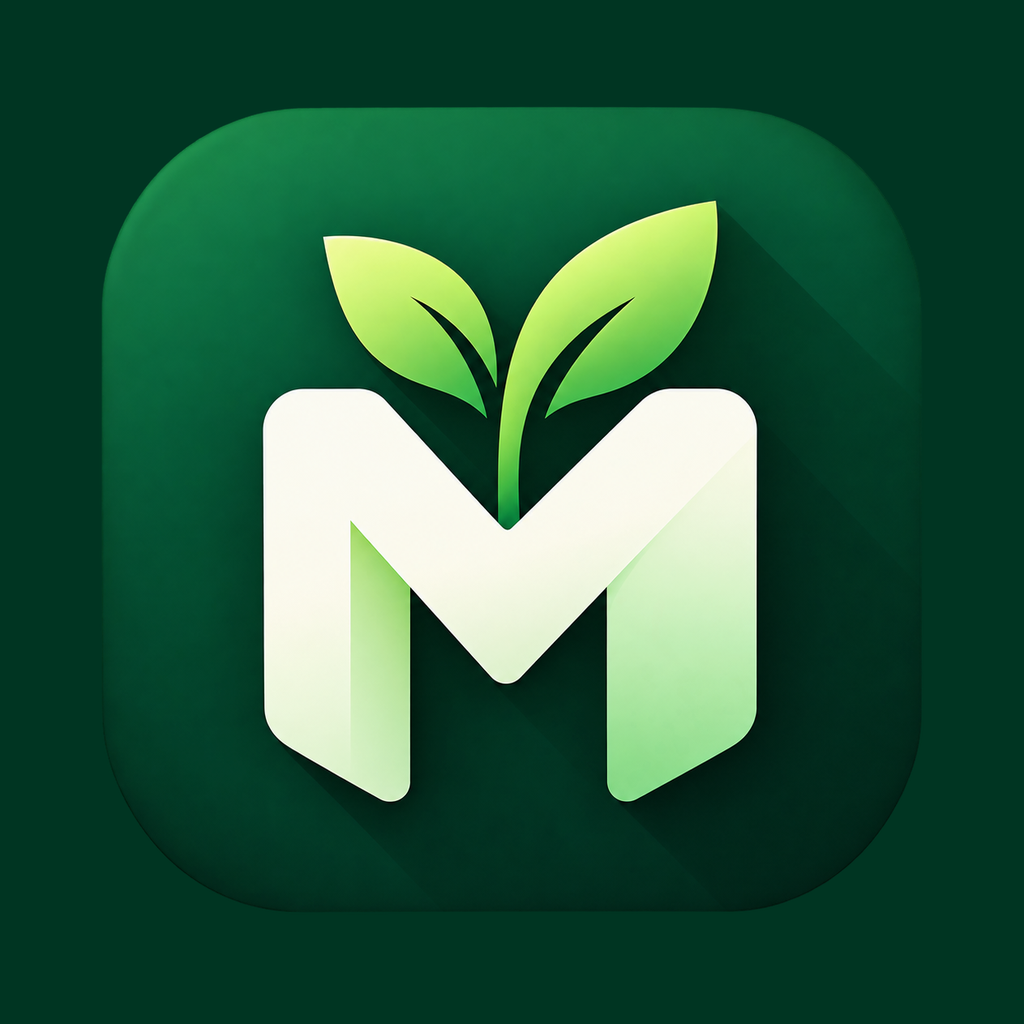
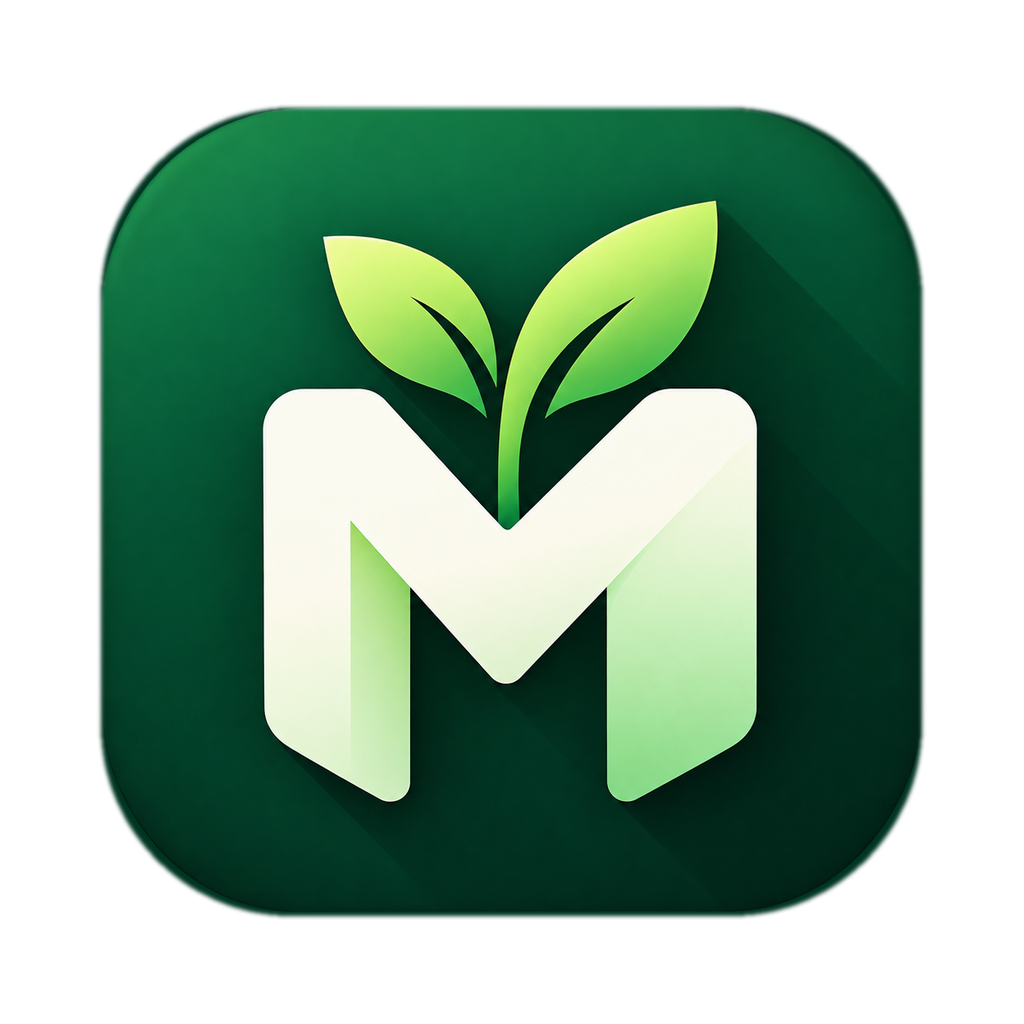
Add files via upload

diff --git a/lib/main.dart b/lib/main.dart
@@ -13,7 +13,7 @@ const expenseRed = Color(0xFFE76F6F);
 const defaults = <String, dynamic>{
   'monthly_income': 0.0, 'rent': 0.0, 'savings_goal': 0.0,
   'transactions': [], 'monthly_payments': [], 'processed_months': [],
-  'custom_categories': [], 'ai_provider': 'OpenAI', 'ai_api_key': '',
+  'custom_categories': [], 'hidden_categories': [], 'ai_provider': 'OpenAI', 'ai_api_key': '',
   'ai_model': '', 'ai_base_url': '', 'ai_history': [], 'setup_completed': false, 'currency': 'USD', 'opening_balance': 0.0,
   'language': 'es', 'theme': 'light'
 };
@@ -26,6 +26,28 @@ const additionalLabels=<String,Map<String,String>>{
 'de':{'home':'Start','moves':'Buchungen','monthly':'Zahlungen','stats':'Statistiken','ai':'KI-Berater','settings':'Einstellungen','balance':'Verfügbar','income':'Einnahmen','expenses':'Ausgaben','savings':'Sparziel','add':'Hinzufügen','delete':'Löschen','save':'Speichern','category':'Kategorie','amount':'Betrag','note':'Notiz','name':'Name','send':'Senden','wait':'KI bereitet die Antwort vor','providerWait':'Warte auf Anbieter','noData':'Noch keine Daten','monthIncome':'Automatisches Monatseinkommen','provider':'KI-Anbieter','model':'Modell','key':'API-Schlüssel','import':'JSON importieren','export':'JSON-Sicherung kopieren','confirm':'Alle Daten ersetzen?','yes':'Ersetzen','cancel':'Abbrechen','settingsSaved':'Gespeichert','invalid':'Ungültiger Betrag','type':'Typ','extra':'Zusätzliches Einkommen','expense':'Ausgabe','payment':'Monatszahlung','active':'Aktiv','paused':'Pausiert','language':'Sprache','theme':'Design','dark':'Dunkel','light':'Hell','newPayment':'Neue Monatszahlung','noKey':'API-Schlüssel in Einstellungen eintragen.','custom':'Eigene URL','goal':'Sparziel','error':'Fehler','loading':'Verbinden','backup':'Sicherung kopiert','imported':'Daten importiert','recents':'Letzte Buchungen'},
 'bn':{'home':'হোম','moves':'লেনদেন','monthly':'মাসিক পেমেন্ট','stats':'পরিসংখ্যান','ai':'এআই পরামর্শক','settings':'সেটিংস','balance':'অবশিষ্ট','income':'আয়','expenses':'খরচ','savings':'সঞ্চয়ের লক্ষ্য','add':'যোগ করুন','delete':'মুছুন','save':'সংরক্ষণ','category':'বিভাগ','amount':'পরিমাণ','note':'নোট','name':'নাম','send':'পাঠান','wait':'এআই উত্তর প্রস্তুত করছে','providerWait':'সেবাদাতার উত্তরের অপেক্ষায়','noData':'কোনো তথ্য নেই','monthIncome':'মাসিক আয়','provider':'এআই প্রদানকারী','model':'মডেল','key':'এপিআই কী','import':'JSON আমদানি','export':'JSON ব্যাকআপ কপি','confirm':'সব তথ্য বদলাবেন?','yes':'বদলান','cancel':'বাতিল','settingsSaved':'সেটিংস সংরক্ষিত','invalid':'ভুল পরিমাণ','type':'ধরন','extra':'অতিরিক্ত আয়','expense':'খরচ','payment':'মাসিক পেমেন্ট','active':'সক্রিয়','paused':'বন্ধ','language':'ভাষা','theme':'থিম','dark':'ডার্ক','light':'লাইট','newPayment':'নতুন মাসিক পেমেন্ট','noKey':'সেটিংসে এপিআই কী দিন।','custom':'কাস্টম URL','goal':'সঞ্চয়ের লক্ষ্য','error':'ত্রুটি','loading':'সংযোগ','backup':'ব্যাকআপ কপি হয়েছে','imported':'তথ্য আমদানি হয়েছে','recents':'সাম্প্রতিক লেনদেন'}
 };
+const improvedLabels = <String,Map<String,String>>{
+'es': {'opening':'Saldo inicial','currency':'Moneda','manageCategories':'Administrar categorías','newCategory':'Nueva categoría','categoriesHint':'Elige una categoría','categoryName':'Nombre de categoría','removeCategory':'Eliminar categoría','restoreCategories':'Restablecer categorías','categoryInUse':'Esta categoría se usa en movimientos anteriores; los registros no se borrarán.','chartType':'Tipo de gráfica','distribution':'Distribución de gastos','monthlyTrend':'Comparación mensual','categoryShares':'Gastos por categoría','monthComparison':'Comparación con el mes anterior','previousMonth':'Mes anterior','currentMonth':'Mes actual','spendingChange':'Variación de gastos','incomeChange':'Variación de ingresos','noPrevious':'Sin datos del mes anterior','barChart':'Barras','pieChart':'Circular','lineChart':'Líneas','share':'del gasto','expenseCategories':'Categorías de gastos','editCategories':'Editar categorías'},
+'en': {'opening':'Opening balance','currency':'Currency','manageCategories':'Manage categories','newCategory':'New category','categoriesHint':'Choose a category','categoryName':'Category name','removeCategory':'Remove category','restoreCategories':'Restore categories','categoryInUse':'Past transactions using this category will be preserved.','chartType':'Chart type','distribution':'Expense distribution','monthlyTrend':'Monthly comparison','categoryShares':'Expenses by category','monthComparison':'Compared with previous month','previousMonth':'Previous month','currentMonth':'Current month','spendingChange':'Expense change','incomeChange':'Income change','noPrevious':'No data for previous month','barChart':'Bars','pieChart':'Pie','lineChart':'Line','share':'of expenses','expenseCategories':'Expense categories','editCategories':'Edit categories'},
+'fr': {'opening':'Solde initial','currency':'Devise','manageCategories':'Gérer les catégories','newCategory':'Nouvelle catégorie','categoriesHint':'Choisir une catégorie','categoryName':'Nom de catégorie','removeCategory':'Supprimer la catégorie','restoreCategories':'Réinitialiser les catégories','categoryInUse':'Les anciennes opérations seront conservées.','chartType':'Type de graphique','distribution':'Répartition des dépenses','monthlyTrend':'Comparaison mensuelle','categoryShares':'Dépenses par catégorie','monthComparison':'Par rapport au mois précédent','previousMonth':'Mois précédent','currentMonth':'Mois actuel','spendingChange':'Variation des dépenses','incomeChange':'Variation des revenus','noPrevious':'Aucune donnée du mois précédent','barChart':'Barres','pieChart':'Camembert','lineChart':'Courbe','share':'des dépenses','expenseCategories':'Catégories de dépenses','editCategories':'Modifier les catégories','calculator':'Calculatrice'},
+'de': {'opening':'Anfangssaldo','currency':'Währung','manageCategories':'Kategorien verwalten','newCategory':'Neue Kategorie','categoriesHint':'Kategorie auswählen','categoryName':'Kategoriename','removeCategory':'Kategorie entfernen','restoreCategories':'Kategorien zurücksetzen','categoryInUse':'Frühere Buchungen bleiben erhalten.','chartType':'Diagrammtyp','distribution':'Ausgabenverteilung','monthlyTrend':'Monatsvergleich','categoryShares':'Ausgaben nach Kategorie','monthComparison':'Vergleich zum Vormonat','previousMonth':'Vormonat','currentMonth':'Aktueller Monat','spendingChange':'Ausgabenänderung','incomeChange':'Einnahmenänderung','noPrevious':'Keine Daten im Vormonat','barChart':'Balken','pieChart':'Kreis','lineChart':'Linie','share':'der Ausgaben','expenseCategories':'Ausgabenkategorien','editCategories':'Kategorien bearbeiten','calculator':'Rechner'},
+'bn': {'opening':'প্রারম্ভিক ব্যালেন্স','currency':'মুদ্রা','manageCategories':'বিভাগ পরিচালনা','newCategory':'নতুন বিভাগ','categoriesHint':'বিভাগ বেছে নিন','categoryName':'বিভাগের নাম','removeCategory':'বিভাগ মুছুন','restoreCategories':'বিভাগ পুনরুদ্ধার','categoryInUse':'আগের লেনদেনগুলো সংরক্ষিত থাকবে।','chartType':'চার্টের ধরন','distribution':'খরচের বিভাজন','monthlyTrend':'মাসিক তুলনা','categoryShares':'বিভাগভিত্তিক খরচ','monthComparison':'আগের মাসের তুলনায়','previousMonth':'আগের মাস','currentMonth':'চলতি মাস','spendingChange':'খরচের পরিবর্তন','incomeChange':'আয়ের পরিবর্তন','noPrevious':'আগের মাসের তথ্য নেই','barChart':'বার','pieChart':'পাই','lineChart':'লাইন','share':'খরচের','expenseCategories':'খরচের বিভাগ','editCategories':'বিভাগ সম্পাদনা','calculator':'ক্যালকুলেটর'}
+};
+const categoryTranslations = <String,Map<String,String>>{
+'Comida':{'es':'Comida','en':'Food','fr':'Alimentation','de':'Lebensmittel','bn':'খাবার'},
+'Transporte':{'es':'Transporte','en':'Transport','fr':'Transport','de':'Transport','bn':'পরিবহন'},
+'Vivienda':{'es':'Vivienda','en':'Housing','fr':'Logement','de':'Wohnen','bn':'বাসস্থান'},
+'Servicios':{'es':'Servicios','en':'Utilities','fr':'Services','de':'Nebenkosten','bn':'ইউটিলিটি'},
+'Salud':{'es':'Salud','en':'Health','fr':'Santé','de':'Gesundheit','bn':'স্বাস্থ্য'},
+'Entretenimiento':{'es':'Entretenimiento','en':'Entertainment','fr':'Loisirs','de':'Unterhaltung','bn':'বিনোদন'},
+'Compras':{'es':'Compras','en':'Shopping','fr':'Achats','de':'Einkäufe','bn':'কেনাকাটা'},
+'Educación':{'es':'Educación','en':'Education','fr':'Éducation','de':'Bildung','bn':'শিক্ষা'},
+'Otro':{'es':'Otro','en':'Other','fr':'Autre','de':'Sonstiges','bn':'অন্যান্য'},
+'Ingreso mensual':{'es':'Ingreso mensual','en':'Monthly income','fr':'Revenu mensuel','de':'Monatseinkommen','bn':'মাসিক আয়'},
+'Pago mensual':{'es':'Pago mensual','en':'Monthly payment','fr':'Paiement mensuel','de':'Monatszahlung','bn':'মাসিক পেমেন্ট'}
+};
+const defaultCategories=['Comida','Transporte','Vivienda','Servicios','Salud','Entretenimiento','Compras','Educación','Otro'];
+
 String monthNow() { final d=DateTime.now(); return '${d.year}-${d.month.toString().padLeft(2,'0')}'; }
 String stampNow() => DateTime.now().toIso8601String().replaceFirst('T',' ').substring(0,19);
 double number(dynamic n) => n is num ? n.toDouble() : double.tryParse('$n') ?? 0;
@@ -41,7 +63,10 @@ class _MafiFlowAppState extends State<MafiFlowApp> {
 
   Map<String,dynamic> data=Map<String,dynamic>.from(defaults);
   bool ready=false; int tab=0;
-  String t(String key)=> (additionalLabels[data['language']] ?? labels[data['language']] ?? labels['es']!)[key] ?? labels['en']![key] ?? key;
+  String t(String key)=> improvedLabels['${data['language']}']?[key] ?? (additionalLabels[data['language']] ?? labels[data['language']] ?? labels['es']!)[key] ?? labels['en']![key] ?? key;
+  String catName(String category)=>categoryTranslations[category]?['${data['language']}']??category;
+  List<String> get categories {final hidden=(data['hidden_categories'] as List? ?? []).map((e)=>'$e').toSet();final custom=(data['custom_categories'] as List? ?? []).map((e)=>'$e').where((e)=>e.trim().isNotEmpty);return {...defaultCategories,...custom}.where((e)=>!hidden.contains(e)).toList();}
+  String chartMode='pie';
   List<Map<String,dynamic>> get tx=>records(data['transactions']);
   List<Map<String,dynamic>> get payments=>records(data['monthly_payments']);
   bool get dark=>data['theme']=='dark';
@@ -64,14 +89,105 @@ class _MafiFlowAppState extends State<MafiFlowApp> {
   Widget scroll(List<Widget> widgets)=>ListView(padding:const EdgeInsets.all(16),children:widgets);
   Widget stat(String label,double value,IconData icon,Color color)=>card(Row(children:[Icon(icon,color:color),const SizedBox(width:14),Expanded(child:Text(label)),Text(money(value),style:TextStyle(fontWeight:FontWeight.bold,fontSize:19,color:color))]));
   Widget home(){final v=totals();return scroll([heading(t('home')),stat(t('balance'),v.balance,Icons.account_balance_wallet,v.balance<0?expenseRed:green),stat(t('income'),v.income,Icons.trending_up,green),stat(t('expenses'),v.spent,Icons.trending_down,expenseRed),stat(t('savings'),number(data['savings_goal']),Icons.savings,Colors.blue),heading(t('recents')),...tx.reversed.take(7).map(tile)]);}
-  Widget tile(Map<String,dynamic> x,{VoidCallback? onDelete}) {final plus=x['type']=='Ingreso mensual'||x['type']=='Ingreso extra';return card(ListTile(contentPadding:EdgeInsets.zero,title:Text('${x['category']??x['type']}'),subtitle:Text('${x['date']??''}\n${x['note']??''}'),isThreeLine:true,trailing:Row(mainAxisSize:MainAxisSize.min,children:[Text('${plus?'+':'−'}${money(number(x['amount']))}',style:TextStyle(color:plus?green:expenseRed,fontWeight:FontWeight.bold)),if(onDelete!=null)IconButton(onPressed:onDelete,icon:const Icon(Icons.delete_outline))])));}
-  Future<void> addTransaction() async {String type='Gasto';String category='Otro';final amount=TextEditingController(),note=TextEditingController();await showDialog(context:dialogContext,builder:(c)=>StatefulBuilder(builder:(c,update)=>AlertDialog(title:Text(t('add')),content:SingleChildScrollView(child:Column(mainAxisSize:MainAxisSize.min,children:[DropdownButtonFormField<String>(value:type,items:['Gasto','Ingreso extra'].map((e)=>DropdownMenuItem(value:e,child:Text(e=='Gasto'?t('expense'):t('extra')))).toList(),onChanged:(v)=>update(()=>type=v!)),TextField(decoration:InputDecoration(labelText:t('category')),onChanged:(v)=>category=v),TextField(controller:amount,keyboardType:const TextInputType.numberWithOptions(decimal:true),decoration:InputDecoration(labelText:t('amount'))),TextField(controller:note,decoration:InputDecoration(labelText:t('note')))])),actions:[TextButton(onPressed:()=>Navigator.pop(c),child:Text(t('cancel'))),FilledButton(onPressed:(){final n=double.tryParse(amount.text.replaceAll(',','.'));if(n==null||n<=0||!n.isFinite){notice(t('invalid'));return;}data['transactions']=[...tx,{'date':stampNow(),'type':type,'category':category.trim().isEmpty?'Otro':category.trim(),'amount':n,'note':note.text}];Navigator.pop(c);save();},child:Text(t('save')))])));}
+  Widget tile(Map<String,dynamic> x,{VoidCallback? onDelete}) {final plus=x['type']=='Ingreso mensual'||x['type']=='Ingreso extra';return card(ListTile(contentPadding:EdgeInsets.zero,title:Text(catName('${x['category']??x['type']}')),subtitle:Text('${x['date']??''}\n${x['note']??''}'),isThreeLine:true,trailing:Row(mainAxisSize:MainAxisSize.min,children:[Text('${plus?'+':'−'}${money(number(x['amount']))}',style:TextStyle(color:plus?green:expenseRed,fontWeight:FontWeight.bold)),if(onDelete!=null)IconButton(onPressed:onDelete,icon:const Icon(Icons.delete_outline))])));}
+  Future<void> addTransaction() async {
+    String type='Gasto';
+    String category=categories.isEmpty?'Otro':categories.first;
+    final amount=TextEditingController(),note=TextEditingController();
+    await showDialog(context:dialogContext,builder:(c)=>StatefulBuilder(builder:(c,update)=>AlertDialog(
+      title:Text(t('add')),
+      content:SingleChildScrollView(child:Column(mainAxisSize:MainAxisSize.min,children:[
+        DropdownButtonFormField<String>(initialValue:type,items:['Gasto','Ingreso extra'].map((e)=>DropdownMenuItem(value:e,child:Text(e=='Gasto'?t('expense'):t('extra'))).toList(),onChanged:(v)=>update(()=>type=v!)),
+        if(type=='Gasto') DropdownButtonFormField<String>(key:ValueKey(category),initialValue:categories.contains(category)?category:null,decoration:InputDecoration(labelText:t('category')),isExpanded:true,items:categories.map((e)=>DropdownMenuItem(value:e,child:Text(catName(e)))).toList(),onChanged:(v)=>update(()=>category=v??'Otro')),
+        TextButton.icon(onPressed:()async{await manageCategories();if(c.mounted)update((){if(!categories.contains(category))category=categories.isEmpty?'Otro':categories.first;});},icon:const Icon(Icons.tune),label:Text(t('editCategories'))),
+        TextField(controller:amount,keyboardType:const TextInputType.numberWithOptions(decimal:true),decoration:InputDecoration(labelText:t('amount'))),
+        TextField(controller:note,decoration:InputDecoration(labelText:t('note')))
+      ])),
+      actions:[TextButton(onPressed:()=>Navigator.pop(c),child:Text(t('cancel'))),FilledButton(onPressed:(){
+        final n=double.tryParse(amount.text.replaceAll(',','.'));
+        if(n==null||n<=0||!n.isFinite){notice(t('invalid'));return;}
+        data['transactions']=[...tx,{'date':stampNow(),'type':type,'category':type=='Gasto'?category:'Ingreso extra','amount':n,'note':note.text}];
+        Navigator.pop(c);save();
+      },child:Text(t('save')))]
+    )));
+    amount.dispose();note.dispose();
+  }
+  Future<void> manageCategories() async {
+    final controller=TextEditingController();
+    await showDialog(context:dialogContext,builder:(ctx)=>StatefulBuilder(builder:(ctx,update)=>AlertDialog(
+      title:Text(t('manageCategories')),
+      content:SizedBox(width:380,child:SingleChildScrollView(child:Column(mainAxisSize:MainAxisSize.min,children:[
+        TextField(controller:controller,decoration:InputDecoration(labelText:t('categoryName'))),
+        const SizedBox(height:8),
+        FilledButton.icon(onPressed:(){final name=controller.text.trim();if(name.isEmpty)return;final hidden=(data['hidden_categories'] as List? ?? []).map((e)=>'$e').toList();hidden.remove(name);data['hidden_categories']=hidden;if(!defaultCategories.contains(name)){data['custom_categories']={...(data['custom_categories'] as List? ?? []).map((e)=>'$e'),name}.toList();}controller.clear();update((){});save();},icon:const Icon(Icons.add),label:Text(t('newCategory'))),
+        ...categories.map((name)=>ListTile(dense:true,title:Text(catName(name)),trailing:IconButton(tooltip:t('removeCategory'),icon:const Icon(Icons.delete_outline),onPressed:(){if(defaultCategories.contains(name)){data['hidden_categories']={...(data['hidden_categories'] as List? ?? []).map((e)=>'$e'),name}.toList();}else{data['custom_categories']=(data['custom_categories'] as List? ?? []).where((e)=>'$e'!=name).toList();}update((){});save();}))),
+        TextButton.icon(onPressed:(){data['hidden_categories']=[];update((){});save();},icon:const Icon(Icons.restore),label:Text(t('restoreCategories'))),
+        Text(t('categoryInUse'),style:Theme.of(ctx).textTheme.bodySmall)
+      ]))),
+      actions:[TextButton(onPressed:()=>Navigator.pop(ctx),child:Text(t('save')))]
+    )));
+    controller.dispose();
+  }
   Widget transactions()=>scroll([heading(t('moves')),FilledButton.icon(onPressed:addTransaction,icon:const Icon(Icons.add),label:Text(t('add'))),...tx.reversed.map((x)=>tile(x,onDelete:(){final list=tx;// compare values as records() creates copies
     final i=list.indexWhere((v)=>v['date']==x['date']&&v['amount']==x['amount']&&v['type']==x['type']&&v['note']==x['note']);if(i>=0)list.removeAt(i);data['transactions']=list;save();}))]);
   Future<void> addPayment()async {final name=TextEditingController(),amount=TextEditingController();await showDialog(context:dialogContext,builder:(c)=>AlertDialog(title:Text(t('newPayment')),content:Column(mainAxisSize:MainAxisSize.min,children:[TextField(controller:name,decoration:InputDecoration(labelText:t('name'))),TextField(controller:amount,keyboardType:const TextInputType.numberWithOptions(decimal:true),decoration:InputDecoration(labelText:t('amount')))]),actions:[TextButton(onPressed:()=>Navigator.pop(c),child:Text(t('cancel'))),FilledButton(onPressed:(){final n=double.tryParse(amount.text.replaceAll(',','.'));if(n==null||n<=0||!n.isFinite||name.text.trim().isEmpty){notice(t('invalid'));return;}data['monthly_payments']=[...payments,{'name':name.text.trim(),'amount':n,'active':true}];Navigator.pop(c);save();},child:Text(t('save')))]));}
   Widget monthly()=>scroll([heading(t('monthly')),FilledButton.icon(onPressed:addPayment,icon:const Icon(Icons.add),label:Text(t('newPayment'))),...payments.asMap().entries.map((e)=>card(ListTile(title:Text('${e.value['name']}'),subtitle:Text(money(number(e.value['amount']))),leading:Switch(value:e.value['active']!=false,onChanged:(v){final list=payments;list[e.key]['active']=v;data['monthly_payments']=list;save();}),trailing:IconButton(icon:const Icon(Icons.delete_outline),onPressed:(){final list=payments;list.removeAt(e.key);data['monthly_payments']=list;save();})) ))]);
-  Widget stats(){final v=totals();final income=max(0.0,v.income),spent=max(0.0,v.spent),sum=income+spent;final byCategory=<String,double>{};for(final x in tx.where((e)=>'${e['date']}'.startsWith(monthNow())&&(e['type']=='Gasto'||e['type']=='Pago mensual'))){final n=max(0.0,number(x['amount']));if(n>0)byCategory.update('${x['category']}',(old)=>old+n,ifAbsent:()=>n);}return scroll([heading(t('stats')),stat(t('income'),v.income,Icons.arrow_upward,green),stat(t('expenses'),v.spent,Icons.arrow_downward,expenseRed),card(Column(children:[Text('${t('income')} / ${t('expenses')}'),const SizedBox(height:16),SizedBox(height:200,child:sum<=0?Center(child:Text(t('noData'))):PieChart(PieChartData(sections:[if(income>0)PieChartSectionData(value:income,color:green,title:'${(100*income/sum).round()}%',radius:75),if(spent>0)PieChartSectionData(value:spent,color:expenseRed,title:'${(100*spent/sum).round()}%',radius:75)],sectionsSpace:2,centerSpaceRadius:28)))])),heading(t('category')),...byCategory.entries.map((e)=>card(Row(children:[Expanded(child:Text(e.key)),Text(money(e.value))])))]);}
-  Widget settings(){final opening=TextEditingController(text:'${data['opening_balance']??0}');String currency='${data['currency']??'USD'}';final income=TextEditingController(text:'${data['monthly_income']}'),goal=TextEditingController(text:'${data['savings_goal']}'),api=TextEditingController(text:'${data['ai_api_key']}'),model=TextEditingController(text:'${data['ai_model']}'),url=TextEditingController(text:'${data['ai_base_url']}');String provider='${data['ai_provider']}';String lang='${data['language']}';String theme='${data['theme']}';return StatefulBuilder(builder:(c,update)=>scroll([heading(t('settings')),card(Column(children:[TextField(controller:income,keyboardType:TextInputType.number,decoration:InputDecoration(labelText:t('monthIncome'))),TextField(controller:goal,keyboardType:TextInputType.number,decoration:InputDecoration(labelText:t('goal'))),TextField(controller:opening,keyboardType:TextInputType.number,decoration:const InputDecoration(labelText:'Saldo inicial / Opening balance')),DropdownButtonFormField<String>(initialValue:currency,decoration:const InputDecoration(labelText:'Moneda / Currency'),items:['USD','CAD','EUR','GBP','BDT'].map((v)=>DropdownMenuItem(value:v,child:Text(v))).toList(),onChanged:(v)=>update(()=>currency=v??'USD')),DropdownButtonFormField<String>(value:['OpenAI','NVIDIA','Custom'].contains(provider)?provider:'OpenAI',decoration:InputDecoration(labelText:t('provider')),items:['OpenAI','NVIDIA','Custom'].map((e)=>DropdownMenuItem(value:e,child:Text(e))).toList(),onChanged:(v)=>update(()=>provider=v!)),TextField(controller:api,obscureText:true,decoration:InputDecoration(labelText:t('key'))),TextField(controller:model,decoration:InputDecoration(labelText:t('model'))),TextField(controller:url,decoration:InputDecoration(labelText:t('custom'))),DropdownButtonFormField<String>(value:const ['es','en','fr','de','bn'].contains(lang)?lang:'es',decoration:InputDecoration(labelText:t('language')),items:const [DropdownMenuItem(value:'es',child:Text('Español')),DropdownMenuItem(value:'en',child:Text('English')),DropdownMenuItem(value:'fr',child:Text('Français')),DropdownMenuItem(value:'de',child:Text('Deutsch')),DropdownMenuItem(value:'bn',child:Text('বাংলা'))],onChanged:(v)=>update(()=>lang=v!)),DropdownButtonFormField<String>(value:theme,decoration:InputDecoration(labelText:t('theme')),items:[DropdownMenuItem(value:'light',child:Text(t('light'))),DropdownMenuItem(value:'dark',child:Text(t('dark')))],onChanged:(v)=>update(()=>theme=v!)),const SizedBox(height:12),FilledButton(onPressed:(){final inc=double.tryParse(income.text.replaceAll(',','.'));final sav=double.tryParse(goal.text.replaceAll(',','.'));if(inc==null||sav==null||double.tryParse(opening.text.replaceAll(',','.'))==null||!inc.isFinite||!sav.isFinite||inc<0||sav<0){notice(t('invalid'));return;}data.addAll({'monthly_income':inc,'savings_goal':sav,'opening_balance':double.parse(opening.text.replaceAll(',','.')),'currency':currency,'ai_provider':provider,'ai_api_key':api.text.trim(),'ai_model':model.text.trim(),'ai_base_url':url.text.trim(),'language':lang,'theme':theme});save();notice(t('settingsSaved'));},child:Text(t('save')))])),card(Column(children:[ListTile(leading:const Icon(Icons.copy),title:Text(t('export')),onTap:()async{final copy=Map<String,dynamic>.from(data)..['ai_api_key']='';await Clipboard.setData(ClipboardData(text:const JsonEncoder.withIndent('  ').convert(copy)));notice(t('backup'));}),ListTile(leading:const Icon(Icons.download),title:Text(t('import')),onTap:()async{final clipboard=await Clipboard.getData('text/plain');try{final obj=jsonDecode(clipboard?.text??'');if(obj is! Map||obj['transactions'] is! List)throw const FormatException();if(!mounted)return;final ok=await showDialog<bool>(context:context,builder:(d)=>AlertDialog(title:Text(t('import')),content:Text(t('confirm')),actions:[TextButton(onPressed:()=>Navigator.pop(d,false),child:Text(t('cancel'))),FilledButton(onPressed:()=>Navigator.pop(d,true),child:Text(t('yes')))]));if(ok==true){data={...defaults,...Map<String,dynamic>.from(obj)};await save();notice(t('imported'));}}catch(_){notice(t('invalid'));}})]))]));}
+  String previousMonth(){final now=DateTime.now();final prev=DateTime(now.year,now.month-1,1);return '${prev.year}-${prev.month.toString().padLeft(2,'0')}';}
+  String monthAt(int offset){final d=DateTime.now();final x=DateTime(d.year,d.month+offset,1);return '${x.year}-${x.month.toString().padLeft(2,'0')}';}
+  String percentChange(double now,double prev){if(prev==0)return now==0?'0%':'—';final change=(now-prev)/prev*100;return '${change>=0?'+':''}${change.toStringAsFixed(1)}%';}
+  Widget stats(){
+    final v=totals(),prior=totals(previousMonth());
+    final income=max(0.0,v.income),spent=max(0.0,v.spent),sum=income+spent;
+    final byCategory=<String,double>{};
+    for(final x in tx.where((e)=>'${e['date']}'.startsWith(monthNow())&&(e['type']=='Gasto'||e['type']=='Pago mensual'))){
+      final n=max(0.0,number(x['amount']));if(n>0)byCategory.update('${x['category']}',(old)=>old+n,ifAbsent:()=>n);
+    }
+    final colors=[green,expenseRed,Colors.blue,Colors.orange,Colors.purple,Colors.teal,Colors.pink,Colors.amber,Colors.indigo];
+    final items=byCategory.entries.toList()..sort((a,b)=>b.value.compareTo(a.value));
+    final expenseTotal=items.fold<double>(0,(v,e)=>v+e.value);
+    final lastMonths=List.generate(6,(i)=>monthAt(i-5));
+    final series=lastMonths.map((m)=>totals(m)).toList();
+    final maxValue=max(1.0,series.fold<double>(0,(v,e)=>max(v,max(e.income,e.spent))))*1.2;
+    return scroll([
+      heading(t('stats')),
+      stat(t('income'),v.income,Icons.arrow_upward,green),
+      stat(t('expenses'),v.spent,Icons.arrow_downward,expenseRed),
+      card(Column(crossAxisAlignment:CrossAxisAlignment.start,children:[
+        Text(t('monthComparison'),style:Theme.of(context).textTheme.titleMedium),const SizedBox(height:12),
+        Row(children:[Expanded(child:Text(t('spendingChange'))),Text(percentChange(v.spent,prior.spent),style:TextStyle(color:v.spent>prior.spent?expenseRed:green,fontWeight:FontWeight.bold))]),
+        const SizedBox(height:8),Row(children:[Expanded(child:Text(t('incomeChange'))),Text(percentChange(v.income,prior.income),style:const TextStyle(fontWeight:FontWeight.bold))]),
+        if(prior.spent==0&&prior.income==0)Padding(padding:const EdgeInsets.only(top:8),child:Text(t('noPrevious'),style:Theme.of(context).textTheme.bodySmall))
+      ])),
+      card(Column(children:[
+        Text(t('distribution'),style:Theme.of(context).textTheme.titleMedium),const SizedBox(height:12),
+        SizedBox(height:200,child:sum<=0?Center(child:Text(t('noData'))):PieChart(PieChartData(sections:[
+          if(income>0)PieChartSectionData(value:income,color:green,title:'${(100*income/sum).round()}%',radius:72),
+          if(spent>0)PieChartSectionData(value:spent,color:expenseRed,title:'${(100*spent/sum).round()}%',radius:72)
+        ],sectionsSpace:2,centerSpaceRadius:30)))
+      ])),
+      card(Column(crossAxisAlignment:CrossAxisAlignment.start,children:[
+        Text(t('monthlyTrend'),style:Theme.of(context).textTheme.titleMedium),const SizedBox(height:8),
+        SegmentedButton<String>(showSelectedIcon:false,segments:[ButtonSegment(value:'bar',label:Text(t('barChart'))),ButtonSegment(value:'line',label:Text(t('lineChart')))],selected:{chartMode=='line'?'line':'bar'},onSelectionChanged:(v)=>setState(()=>chartMode=v.first)),
+        const SizedBox(height:18),
+        SizedBox(height:230,child:chartMode=='line'?LineChart(LineChartData(
+          minY:0,maxY:maxValue,
+          lineBarsData:[LineChartBarData(spots:List.generate(6,(i)=>FlSpot(i.toDouble(),series[i].income)),color:green,isCurved:true,barWidth:3,dotData:const FlDotData(show:true)),LineChartBarData(spots:List.generate(6,(i)=>FlSpot(i.toDouble(),series[i].spent)),color:expenseRed,isCurved:true,barWidth:3,dotData:const FlDotData(show:true))],
+          titlesData:FlTitlesData(topTitles:const AxisTitles(sideTitles:SideTitles(showTitles:false)),rightTitles:const AxisTitles(sideTitles:SideTitles(showTitles:false)),leftTitles:const AxisTitles(sideTitles:SideTitles(showTitles:false)),bottomTitles:AxisTitles(sideTitles:SideTitles(showTitles:true,reservedSize:30,getTitlesWidget:(value,meta){final i=value.toInt();return i>=0&&i<6?Text(lastMonths[i].substring(5),style:const TextStyle(fontSize:10)):const SizedBox.shrink();})))
+        )):BarChart(BarChartData(
+          maxY:maxValue,alignment:BarChartAlignment.spaceAround,
+          barGroups:List.generate(6,(i)=>BarChartGroupData(x:i,barRods:[BarChartRodData(toY:series[i].income,color:green,width:9),BarChartRodData(toY:series[i].spent,color:expenseRed,width:9)])),
+          titlesData:FlTitlesData(topTitles:const AxisTitles(sideTitles:SideTitles(showTitles:false)),rightTitles:const AxisTitles(sideTitles:SideTitles(showTitles:false)),leftTitles:const AxisTitles(sideTitles:SideTitles(showTitles:false)),bottomTitles:AxisTitles(sideTitles:SideTitles(showTitles:true,reservedSize:30,getTitlesWidget:(value,meta){final i=value.toInt();return i>=0&&i<6?Text(lastMonths[i].substring(5),style:const TextStyle(fontSize:10)):const SizedBox.shrink();})))
+        ))),
+        Row(mainAxisAlignment:MainAxisAlignment.center,children:[Icon(Icons.circle,color:green,size:12),const SizedBox(width:4),Text(t('income')),const SizedBox(width:18),Icon(Icons.circle,color:expenseRed,size:12),const SizedBox(width:4),Text(t('expenses'))])
+      ])),
+      heading(t('categoryShares')),
+      if(items.isEmpty)card(Text(t('noData'))) else card(Column(children:[
+        SizedBox(height:220,child:PieChart(PieChartData(centerSpaceRadius:28,sectionsSpace:2,sections:List.generate(items.length,(i)=>PieChartSectionData(value:items[i].value,color:colors[i%colors.length],radius:76,title:'${(100*items[i].value/expenseTotal).round()}%'))))),
+        ...List.generate(items.length,(i)=>Padding(padding:const EdgeInsets.symmetric(vertical:8),child:Row(children:[Icon(Icons.circle,color:colors[i%colors.length],size:13),const SizedBox(width:8),Expanded(child:Text(catName(items[i].key))),Text('${(100*items[i].value/expenseTotal).toStringAsFixed(1)}%  ·  ${money(items[i].value)}')]))),
+      ]))
+    ]);
+  }
+  Widget settings(){final opening=TextEditingController(text:'${data['opening_balance']??0}');String currency='${data['currency']??'USD'}';final income=TextEditingController(text:'${data['monthly_income']}'),goal=TextEditingController(text:'${data['savings_goal']}'),api=TextEditingController(text:'${data['ai_api_key']}'),model=TextEditingController(text:'${data['ai_model']}'),url=TextEditingController(text:'${data['ai_base_url']}');String provider='${data['ai_provider']}';String lang='${data['language']}';String theme='${data['theme']}';return StatefulBuilder(builder:(c,update)=>scroll([heading(t('settings')),card(Column(children:[TextField(controller:income,keyboardType:TextInputType.number,decoration:InputDecoration(labelText:t('monthIncome'))),TextField(controller:goal,keyboardType:TextInputType.number,decoration:InputDecoration(labelText:t('goal'))),TextField(controller:opening,keyboardType:TextInputType.number,decoration:InputDecoration(labelText:t('opening'))),DropdownButtonFormField<String>(initialValue:currency,decoration:InputDecoration(labelText:t('currency')),items:['USD','CAD','EUR','GBP','BDT'].map((v)=>DropdownMenuItem(value:v,child:Text(v))).toList(),onChanged:(v)=>update(()=>currency=v??'USD')),DropdownButtonFormField<String>(value:['OpenAI','NVIDIA','Custom'].contains(provider)?provider:'OpenAI',decoration:InputDecoration(labelText:t('provider')),items:['OpenAI','NVIDIA','Custom'].map((e)=>DropdownMenuItem(value:e,child:Text(e))).toList(),onChanged:(v)=>update(()=>provider=v!)),TextField(controller:api,obscureText:true,decoration:InputDecoration(labelText:t('key'))),TextField(controller:model,decoration:InputDecoration(labelText:t('model'))),TextField(controller:url,decoration:InputDecoration(labelText:t('custom'))),DropdownButtonFormField<String>(value:const ['es','en','fr','de','bn'].contains(lang)?lang:'es',decoration:InputDecoration(labelText:t('language')),items:const [DropdownMenuItem(value:'es',child:Text('Español')),DropdownMenuItem(value:'en',child:Text('English')),DropdownMenuItem(value:'fr',child:Text('Français')),DropdownMenuItem(value:'de',child:Text('Deutsch')),DropdownMenuItem(value:'bn',child:Text('বাংলা'))],onChanged:(v)=>update(()=>lang=v!)),DropdownButtonFormField<String>(value:theme,decoration:InputDecoration(labelText:t('theme')),items:[DropdownMenuItem(value:'light',child:Text(t('light'))),DropdownMenuItem(value:'dark',child:Text(t('dark')))],onChanged:(v)=>update(()=>theme=v!)),const SizedBox(height:12),FilledButton(onPressed:(){final inc=double.tryParse(income.text.replaceAll(',','.'));final sav=double.tryParse(goal.text.replaceAll(',','.'));if(inc==null||sav==null||double.tryParse(opening.text.replaceAll(',','.'))==null||!inc.isFinite||!sav.isFinite||inc<0||sav<0){notice(t('invalid'));return;}data.addAll({'monthly_income':inc,'savings_goal':sav,'opening_balance':double.parse(opening.text.replaceAll(',','.')),'currency':currency,'ai_provider':provider,'ai_api_key':api.text.trim(),'ai_model':model.text.trim(),'ai_base_url':url.text.trim(),'language':lang,'theme':theme});save();notice(t('settingsSaved'));},child:Text(t('save')))])),card(Column(children:[ListTile(leading:const Icon(Icons.category_outlined),title:Text(t('manageCategories')),onTap:manageCategories),ListTile(leading:const Icon(Icons.copy),title:Text(t('export')),onTap:()async{final copy=Map<String,dynamic>.from(data)..['ai_api_key']='';await Clipboard.setData(ClipboardData(text:const JsonEncoder.withIndent('  ').convert(copy)));notice(t('backup'));}),ListTile(leading:const Icon(Icons.download),title:Text(t('import')),onTap:()async{final clipboard=await Clipboard.getData('text/plain');try{final obj=jsonDecode(clipboard?.text??'');if(obj is! Map||obj['transactions'] is! List)throw const FormatException();if(!mounted)return;final ok=await showDialog<bool>(context:context,builder:(d)=>AlertDialog(title:Text(t('import')),content:Text(t('confirm')),actions:[TextButton(onPressed:()=>Navigator.pop(d,false),child:Text(t('cancel'))),FilledButton(onPressed:()=>Navigator.pop(d,true),child:Text(t('yes')))]));if(ok==true){data={...defaults,...Map<String,dynamic>.from(obj)};await save();notice(t('imported'));}}catch(_){notice(t('invalid'));}})]))]));}
 }
 
 class Advisor extends StatefulWidget {final Map<String,dynamic> data;final String lang;final Future<void> Function() onSave;const Advisor({super.key,required this.data,required this.lang,required this.onSave});@override State<Advisor> createState()=>_AdvisorState();}

diff --git a/README.md b/README.md
@@ -40,3 +40,12 @@ License: MIT © Mafistudio.
 To find the icon step in GitHub: Actions → Android APK → latest run → android job → Generate official app icon / Verify icon resources.
 
 Do not uninstall the existing app if you want to keep locally stored data.
+
+
+## Beta 4 improvements
+- Launcher icon has transparent outside corners while keeping the original MafiFlow emblem.
+- Built-in, localized expense categories; add/remove personal categories and hide/restore defaults.
+- Charts: income/expense donut, category percentages, six-month bar/line comparison and month-over-month percentages.
+- Translated opening balance, currency, category management and chart labels in ES/EN/FR/DE/BN.
+- Saved data continues using `mafiflow_data` in SharedPreferences; update without uninstalling.
+- Android workflow generates only Android icons; iOS icons should be generated in the separate iOS build from the same `assets/app_icon.png`.
